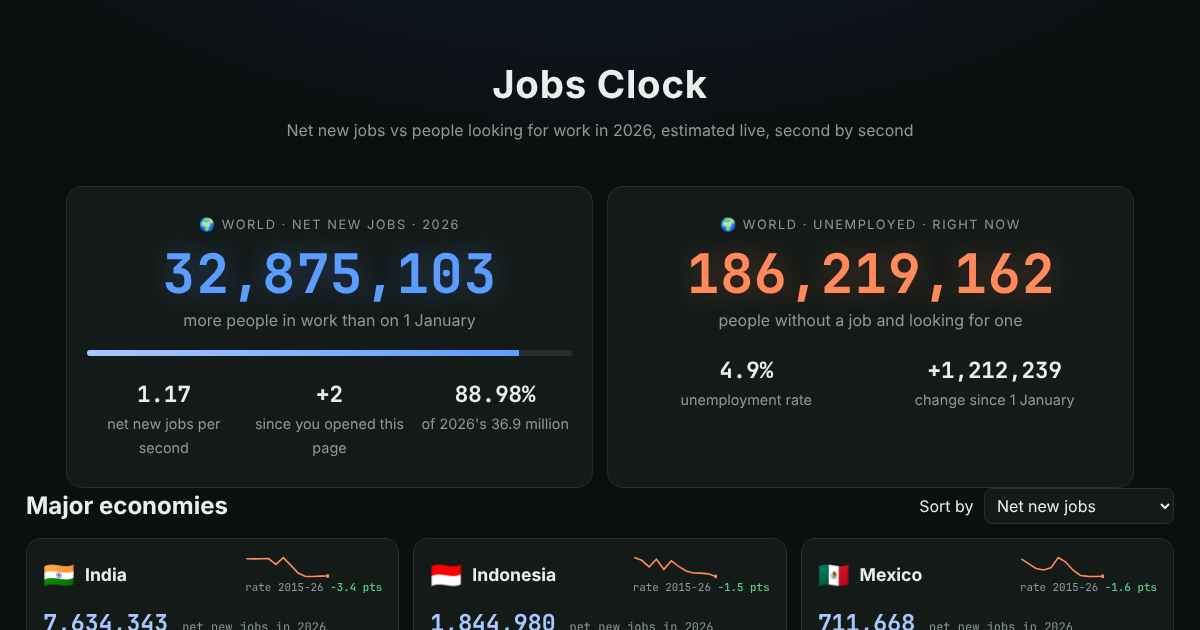
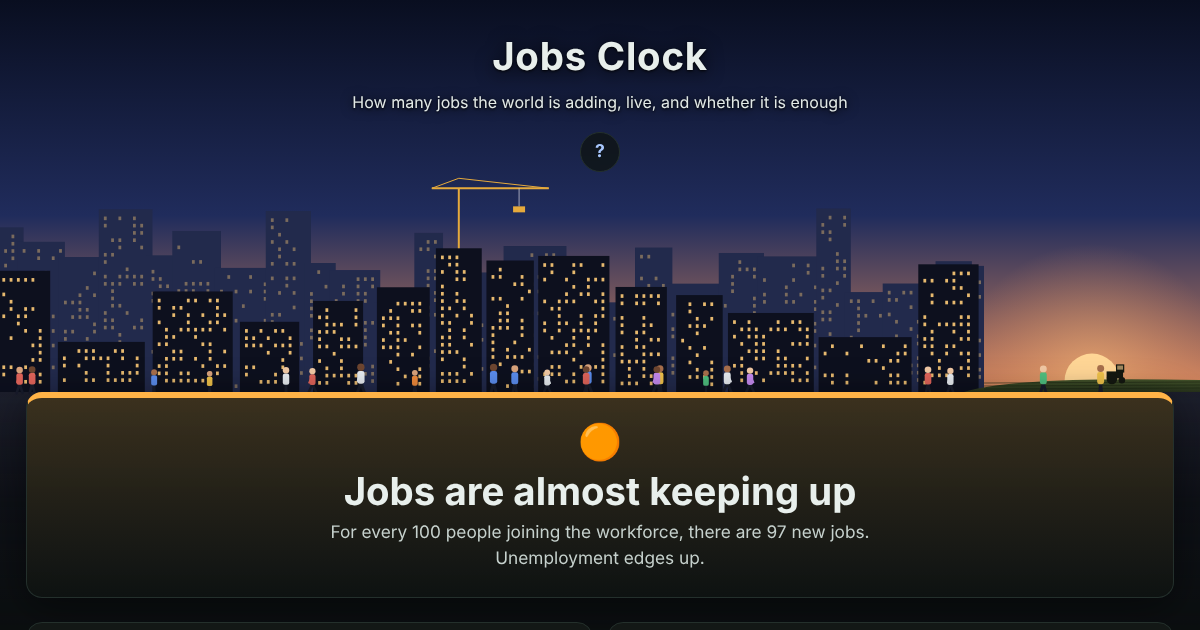
A living scene behind the header; pin clock-core 1.4.0 (commit ec9413e)
The top of the page now shows what the clock is about before a word is read,
and fades into the dark page as you scroll. Text keeps a dark backing so it
stays easy to read on laptops and phones; reduce motion gets a still frame.
The smoke test checks the picture painted. Link preview image regenerated.

Claude-Session: https://claude.ai/code/session_01KMf4v8suBxyLEQeq7bKUrM

diff --git a/js/scene.js b/js/scene.js
@@ -1,0 +1,152 @@
+// @ts-check
+/**
+ * Jobs Clock: the picture behind the top of the page. A town at sunrise as the working day starts: office windows
+ * lighting up, a crane lifting a load, people walking to work along the street and a tractor in the fields at the
+ * edge of town. Drawn with a 2D canvas; clock-core's startScene runs it (see app.js).
+ */
+import { seeded } from "clock-core";
+
+/** @typedef {[number, number, number]} RGB */
+/** @param {RGB} c @param {number} [a] */
+const rgba = (c, a = 1) => `rgba(${c.join(",")},${a})`;
+
+const SKY = /** @type {RGB[]} */ ([[9, 14, 32], [32, 44, 92], [212, 132, 92]]);
+const FAR = /** @type {RGB} */ ([34, 42, 76]), NEAR = /** @type {RGB} */ ([13, 16, 30]);
+const LIT = /** @type {RGB} */ ([255, 204, 120]);
+// Clothes and skin tones for the people walking to work
+const CLOTHES = ["#5b8def", "#e0645a", "#4fbf7f", "#f0c24a", "#c58af0", "#e8edf2", "#f08a3c"];
+const SKIN = ["#f1c9a5", "#d9a37c", "#a86f4c", "#6e4630"];
+
+/**
+ * @typedef {object} Building
+ * @property {number} x
+ * @property {number} w
+ * @property {number} h
+ * @property {boolean} near
+ * @property {{ x: number, y: number, on: number, flip: number }[]} windows  on: 0..1 brightness; flip: seconds to the next change
+ */
+
+/**
+ * Build the jobs scene.
+ * @returns {import("clock-core").Scene}
+ */
+export function jobsScene() {
+  /** @type {Building[]} */ let buildings = [];
+  /** @type {{ x: number, top: number, jib: number, base: number }} */ let crane = { x: 0, top: 0, jib: 0, base: 0 };
+  /** @type {{ x: number, speed: number, size: number, phase: number, clothes: string, skin: string }[]} */ let people = [];
+  let farmFrom = 0, win = 3;
+
+  return {
+    layout(f) {
+      const { w, ground: G } = f;
+      const rnd = seeded(5);
+      const maxH = G * (w < 600 ? 0.36 : 0.48);
+      farmFrom = w * (w < 600 ? 0.8 : 0.82);
+      win = Math.max(2.5, G / 140);
+      buildings = [];
+      // A far row of tall, faint towers, then a near row of offices with windows
+      for (const near of [false, true]) {
+        for (let x = near ? -10 : -30; x < farmFrom;) {
+          const bw = (near ? 34 : 26) + rnd() * (near ? 60 : 40);
+          const bh = maxH * (near ? 0.25 + rnd() * 0.55 : 0.45 + rnd() * 0.55);
+          /** @type {Building} */ const b = { x, w: Math.min(bw, farmFrom - x), h: bh, near, windows: [] };
+          if (b.w > 12) {
+            const gap = win * 2.6;
+            for (let wy = G - bh + gap; wy < G - gap; wy += gap) {
+              for (let wx = x + gap * 0.7; wx < x + b.w - gap * 0.7; wx += gap) {
+                const on = rnd() < (near ? 0.45 : 0.3) ? 1 : 0;
+                b.windows.push({ x: wx, y: wy, on, flip: 2 + rnd() * 25 });
+              }
+            }
+          }
+          buildings.push(b);
+          x += bw + (near ? 4 + rnd() * 10 : -6);
+        }
+      }
+      // A crane on the tallest near building in the left half
+      const host = buildings.filter((b) => b.near && b.x < w * 0.45).sort((a, b) => b.h - a.h)[0] ?? buildings[0];
+      crane = { x: host.x + host.w * 0.5, base: G - host.h, top: G - host.h - Math.min(G * 0.16, 60), jib: Math.min(w * 0.12, 90) };
+      // People walking along the street, both ways
+      people = Array.from({ length: Math.max(6, Math.round(w / 55)) }, () => ({
+        x: rnd() * w, speed: (rnd() < 0.5 ? -1 : 1) * (10 + rnd() * 14), size: Math.max(14, G * 0.055) * (0.85 + rnd() * 0.3), phase: rnd() * 6,
+        clothes: CLOTHES[Math.floor(rnd() * CLOTHES.length)], skin: SKIN[Math.floor(rnd() * SKIN.length)],
+      }));
+    },
+
+    draw(f) {
+      const { ctx, w, h, ground: G, t, dt } = f;
+
+      // Sunrise sky, dark at the top for the title
+      const sky = ctx.createLinearGradient(0, 0, 0, G);
+      sky.addColorStop(0, rgba(SKY[0])); sky.addColorStop(0.55, rgba(SKY[1])); sky.addColorStop(1, rgba(SKY[2]));
+      ctx.fillStyle = sky; ctx.fillRect(0, 0, w, G + 1);
+      // The sun just coming up behind the fields
+      const sx = (farmFrom + w) / 2, sr = Math.min(w, G) * 0.07;
+      const glow = ctx.createRadialGradient(sx, G - sr * 0.4, sr * 0.3, sx, G - sr * 0.4, sr * 5);
+      glow.addColorStop(0, "rgba(255,190,120,.55)"); glow.addColorStop(1, "rgba(255,160,100,0)");
+      ctx.fillStyle = glow; ctx.fillRect(sx - sr * 5, G - sr * 5.4, sr * 10, sr * 10);
+      ctx.fillStyle = "rgb(255,214,150)"; ctx.beginPath(); ctx.arc(sx, G - sr * 0.4, sr, Math.PI, 0); ctx.fill();
+
+      // Buildings, with windows switching on and off as people start work
+      for (const b of buildings) {
+        ctx.fillStyle = rgba(b.near ? NEAR : FAR);
+        ctx.fillRect(b.x, G - b.h, b.w, b.h + 1);
+        for (const wd of b.windows) {
+          if (dt) {
+            wd.flip -= dt;
+            if (wd.flip <= 0) { wd.flip = 4 + Math.random() * 30; wd.on = wd.on > 0.5 ? 0 : 1; }
+          }
+          const a = b.near ? 0.9 : 0.4;
+          if (wd.on) { ctx.fillStyle = rgba(LIT, a); ctx.fillRect(wd.x, wd.y, win, win * 1.3); }
+        }
+      }
+
+      // The crane: mast, jib, a trolley sliding along it and a load going up and down
+      const { x: cx, top, jib, base } = crane;
+      ctx.strokeStyle = "rgb(230,170,60)"; ctx.lineWidth = 2;
+      ctx.beginPath(); ctx.moveTo(cx, base); ctx.lineTo(cx, top); ctx.moveTo(cx - jib * 0.3, top); ctx.lineTo(cx + jib, top); ctx.stroke();
+      ctx.lineWidth = 1;
+      ctx.beginPath(); ctx.moveTo(cx, top - 10); ctx.lineTo(cx + jib, top); ctx.moveTo(cx, top - 10); ctx.lineTo(cx - jib * 0.3, top); ctx.stroke();
+      const trolley = cx + jib * (0.35 + 0.45 * (0.5 + 0.5 * Math.sin(t * 0.25)));
+      const drop = (base - top) * (0.25 + 0.55 * (0.5 + 0.5 * Math.sin(t * 0.4 + 1)));
+      ctx.strokeStyle = "rgba(220,220,230,.7)";
+      ctx.beginPath(); ctx.moveTo(trolley, top); ctx.lineTo(trolley, top + drop); ctx.stroke();
+      ctx.fillStyle = "rgb(230,170,60)"; ctx.fillRect(trolley - 6, top + drop, 12, 6);
+      if (Math.sin(t * 2) > 0.5) { ctx.fillStyle = "rgba(255,70,50,.9)"; ctx.fillRect(cx - 1.5, top - 14, 3, 3); }
+
+      // Fields at the edge of town, with a tractor going back and forth
+      const field = ctx.createLinearGradient(0, G - 14, 0, G);
+      field.addColorStop(0, "rgb(70,86,44)"); field.addColorStop(1, "rgb(40,52,28)");
+      ctx.fillStyle = field;
+      ctx.beginPath(); ctx.moveTo(farmFrom - 20, G); ctx.quadraticCurveTo(farmFrom + 30, G - 16, w, G - 12); ctx.lineTo(w, G); ctx.fill();
+      ctx.strokeStyle = "rgba(30,40,20,.6)"; ctx.lineWidth = 1;
+      for (let i = 1; i < 4; i++) { ctx.beginPath(); ctx.moveTo(farmFrom, G - i * 3); ctx.lineTo(w, G - i * 3 - 1); ctx.stroke(); }
+      const span = w - farmFrom - 40, phase = (t * 0.06) % 2, dir = phase < 1 ? 1 : -1;
+      const tx = farmFrom + 20 + span * (phase < 1 ? phase : 2 - phase), ty = G - 10, s = Math.max(10, G * 0.03);
+      ctx.save(); ctx.translate(tx, ty); ctx.scale(dir, 1);
+      ctx.fillStyle = "rgb(20,24,16)";
+      ctx.fillRect(-s, -s * 0.9, s * 1.4, s * 0.6); ctx.fillRect(-s * 0.2, -s * 1.5, s * 0.7, s * 0.7);
+      ctx.fillStyle = "rgba(255,214,150,.6)"; ctx.fillRect(-s * 0.1, -s * 1.4, s * 0.5, s * 0.35);
+      ctx.fillStyle = "rgb(20,24,16)";
+      ctx.beginPath(); ctx.arc(-s * 0.55, -s * 0.25, s * 0.45, 0, Math.PI * 2); ctx.arc(s * 0.3, -s * 0.15, s * 0.28, 0, Math.PI * 2); ctx.fill();
+      ctx.restore();
+
+      // The street, with people walking to work
+      const street = ctx.createLinearGradient(0, G, 0, h);
+      street.addColorStop(0, "rgb(30,32,46)"); street.addColorStop(0.3, "rgb(16,18,28)"); street.addColorStop(1, "rgb(10,12,16)");
+      ctx.fillStyle = street; ctx.fillRect(0, G, w, h - G);
+      ctx.lineCap = "round";
+      for (const p of people) {
+        if (dt) { p.x += p.speed * dt; if (p.x > w + 20) p.x = -20; if (p.x < -20) p.x = w + 20; }
+        const s = p.size, step = Math.sin(t * 6 + p.phase) * s * 0.2, swing = step * 0.8, y = G + 1;
+        ctx.lineWidth = s * 0.12; ctx.strokeStyle = "rgb(24,28,44)";
+        ctx.beginPath(); ctx.moveTo(p.x, y - s * 0.42); ctx.lineTo(p.x - step, y); ctx.moveTo(p.x, y - s * 0.42); ctx.lineTo(p.x + step, y); ctx.stroke();
+        ctx.fillStyle = p.clothes;
+        ctx.beginPath(); ctx.roundRect(p.x - s * 0.15, y - s * 0.9, s * 0.3, s * 0.52, s * 0.1); ctx.fill();
+        ctx.strokeStyle = p.clothes; ctx.lineWidth = s * 0.09;
+        ctx.beginPath(); ctx.moveTo(p.x, y - s * 0.82); ctx.lineTo(p.x + swing, y - s * 0.5); ctx.stroke();
+        ctx.fillStyle = p.skin; ctx.beginPath(); ctx.arc(p.x, y - s * 1.05, s * 0.15, 0, Math.PI * 2); ctx.fill();
+      }
+    },
+  };
+}

diff --git a/scripts/smoke.js b/scripts/smoke.js
@@ -1,6 +1,6 @@
 // End-to-end smoke test: serves this repository locally, opens the page in headless Chromium at desktop
-// and phone width, and checks that real data loads, counters tick, verdicts show, nothing scrolls sideways
-// no em or en dashes reach the page, and no errors or warnings appear in the console.
+// and phone width, and checks that real data loads, counters tick, verdicts show, the header picture paints,
+// nothing scrolls sideways, no em or en dashes reach the page, and no errors or warnings appear in the console.
 // Settings come from the "smoke" field in package.json.
 //
 //   npm run smoke                        uses the pinned clock-core release from jsDelivr
@@ -75,6 +75,14 @@ for (const hash of ["", ...(cfg.hashes ?? [])]) {
     // The shared stylesheet really applied (a CSS syntax error fails silently): the answer banner has its colour stripe.
     const styled = await page.evaluate(() => { const a = document.getElementById("answer"); return !a || parseFloat(getComputedStyle(a).borderTopWidth) > 0; });
     if (!styled) failures.push(`${name}: clock-core.css did not apply (answer banner has no colour stripe)`);
+    // The picture behind the header painted (an error in the scene hides its canvas).
+    const painted = await page.evaluate(() => {
+      const c = document.querySelector("canvas.scene");
+      if (!(c instanceof HTMLCanvasElement)) return true;
+      const px = !c.hidden && c.width ? c.getContext("2d")?.getImageData(c.width >> 1, 4, 1, 1).data : null;
+      return !!px && px[3] > 0;
+    });
+    if (!painted) failures.push(`${name}: the header picture (canvas.scene) did not paint`);
     const scrollW = await page.evaluate(() => document.documentElement.scrollWidth);
     if (scrollW > Number(w)) failures.push(`${name}: page is ${scrollW}px wide (horizontal scroll)`);
     const text = await page.evaluate(() => document.title + "\n" + document.body.innerText);

diff --git a/index.html b/index.html
@@ -40,10 +40,10 @@
     ]
   }
   </script>
-  <link rel="stylesheet" href="https://cdn.jsdelivr.net/gh/ramialbatal/clock-core@ec72aeee0db58f067da1658b766a21a229a991f1/clock-core.css">
+  <link rel="stylesheet" href="https://cdn.jsdelivr.net/gh/ramialbatal/clock-core@ec9413e351bcc56a3583a3cb9060c0c75d97fdad/clock-core.css">
   <link rel="stylesheet" href="css/theme.css">
   <!-- clock-core is pinned to an exact commit; to upgrade, change it here, in the CSS link above and in package.json -->
-  <script type="importmap">{ "imports": { "clock-core": "https://cdn.jsdelivr.net/gh/ramialbatal/clock-core@ec72aeee0db58f067da1658b766a21a229a991f1/clock-core.js" } }</script>
+  <script type="importmap">{ "imports": { "clock-core": "https://cdn.jsdelivr.net/gh/ramialbatal/clock-core@ec9413e351bcc56a3583a3cb9060c0c75d97fdad/clock-core.js" } }</script>
   <!-- If the page code can't load (CDN down, very old browser), show the error box instead of a spinner forever -->
   <script>
     function clockLoadFailed() {
@@ -60,7 +60,8 @@
   <script nomodule>clockLoadFailed();</script>
   <script type="module" src="js/app.js" onerror="clockLoadFailed()"></script>
 </head>
-<body data-state="loading">
+<body class="has-scene" data-state="loading">
+  <canvas class="scene" aria-hidden="true"></canvas>
   <header class="top">
     <div class="wrap">
       <h1>Jobs Clock</h1>

diff --git a/js/app.js b/js/app.js
@@ -1,7 +1,7 @@
 // @ts-check
 /**
  * Jobs Clock: loads ILO data, renders the page and runs the live counters.
- * Calculations live in model.js (pure, tested); settings in config.js.
+ * Calculations live in model.js (pure, tested); settings in config.js; the picture behind the header in scene.js.
  *
  * Sections: Data · Rendering helpers · World goal section · Page (render) · Boot.
  */
@@ -9,6 +9,7 @@ import * as C from "clock-core";
 import CFG from "./config.js";
 import { jobsEntry, keepUpVerdict, keepUpRank, sdgDirection, worldSummary, subtractSeries, rateFromLevels } from "./model.js";
 import { headline, keepUpStatus, rateStatus, sdgStatus, countryBadge } from "./messages.js";
+import { jobsScene } from "./scene.js";
 
 const { YEAR, fmt, pct, signed, setText, escapeHtml } = C;
 /** @param {string} id */
@@ -255,6 +256,7 @@ async function show() {
   }
 }
 
+C.startScene(document.querySelector("canvas.scene"), jobsScene(), { groundAt: document.querySelector("header.top") });
 C.wireHelp();
 C.fill("year", YEAR);
 C.fill("source", CFG.source);

diff --git a/CLAUDE.md b/CLAUDE.md
@@ -5,7 +5,8 @@
   clock-core's `docs/` (especially `lessons-learned.md` and `adding-a-clock.md`) before changing anything.
 - Plain ES modules, no build step. Settings in `js/config.js`, pure calculations in `js/model.js` (add a test in
   `test/model.test.js` for every change), plain-language messages in `js/messages.js` (tested in
-  `test/messages.test.js`), page code in `js/app.js`.
+  `test/messages.test.js`), page code in `js/app.js`, the animated picture behind the header in `js/scene.js` (keep the
+  title readable over it; check screenshots at laptop and phone width).
 - Page design: answer first, in plain words with a colour (green, amber, red); one short sentence per point; every
   number, method or source behind "More" or "How we calculate this". No jargon in what a visitor sees first.
 - Never copy clock-core helpers into this repo; change clock-core, release it, then bump the pin in three places:

diff --git a/README.md b/README.md
@@ -37,7 +37,7 @@ npx playwright install chromium   # once, for the smoke test
 npm run smoke        # real browser, real data, desktop and phone
 ```
 
-Settings live in `js/config.js`, calculations in `js/model.js` (unit tested), page code in `js/app.js`. Shared helpers
+Settings live in `js/config.js`, calculations in `js/model.js` (unit tested), page code in `js/app.js`, the picture behind the header in `js/scene.js`. Shared helpers
 and styles come from [clock-core](https://github.com/ramialbatal/clock-core), pinned to an exact commit in `index.html` and `package.json`.
 How the clocks are built, lessons learned and rules for new code: [developer notes](https://github.com/ramialbatal/clock-core/tree/main/docs).
 

diff --git a/CONTRIBUTING.md b/CONTRIBUTING.md
@@ -33,6 +33,7 @@ The same checks run automatically on every pull request, and once a week to catc
 | `js/model.js` | Calculations as pure functions (no page, no network). Covered by `test/model.test.js`. |
 | `js/messages.js` | Every plain-language message (the answer at the top, traffic lights, badges): tone plus short words. Covered by `test/messages.test.js`. |
 | `js/app.js` | Loading data, building the page, the live ticker. |
+| `js/scene.js` | The animated picture behind the header (run by clock-core's `startScene`). |
 | `css/theme.css` | Colours and styles specific to this clock. |
 | `index.html` | Page text, method section, sources. |
 
